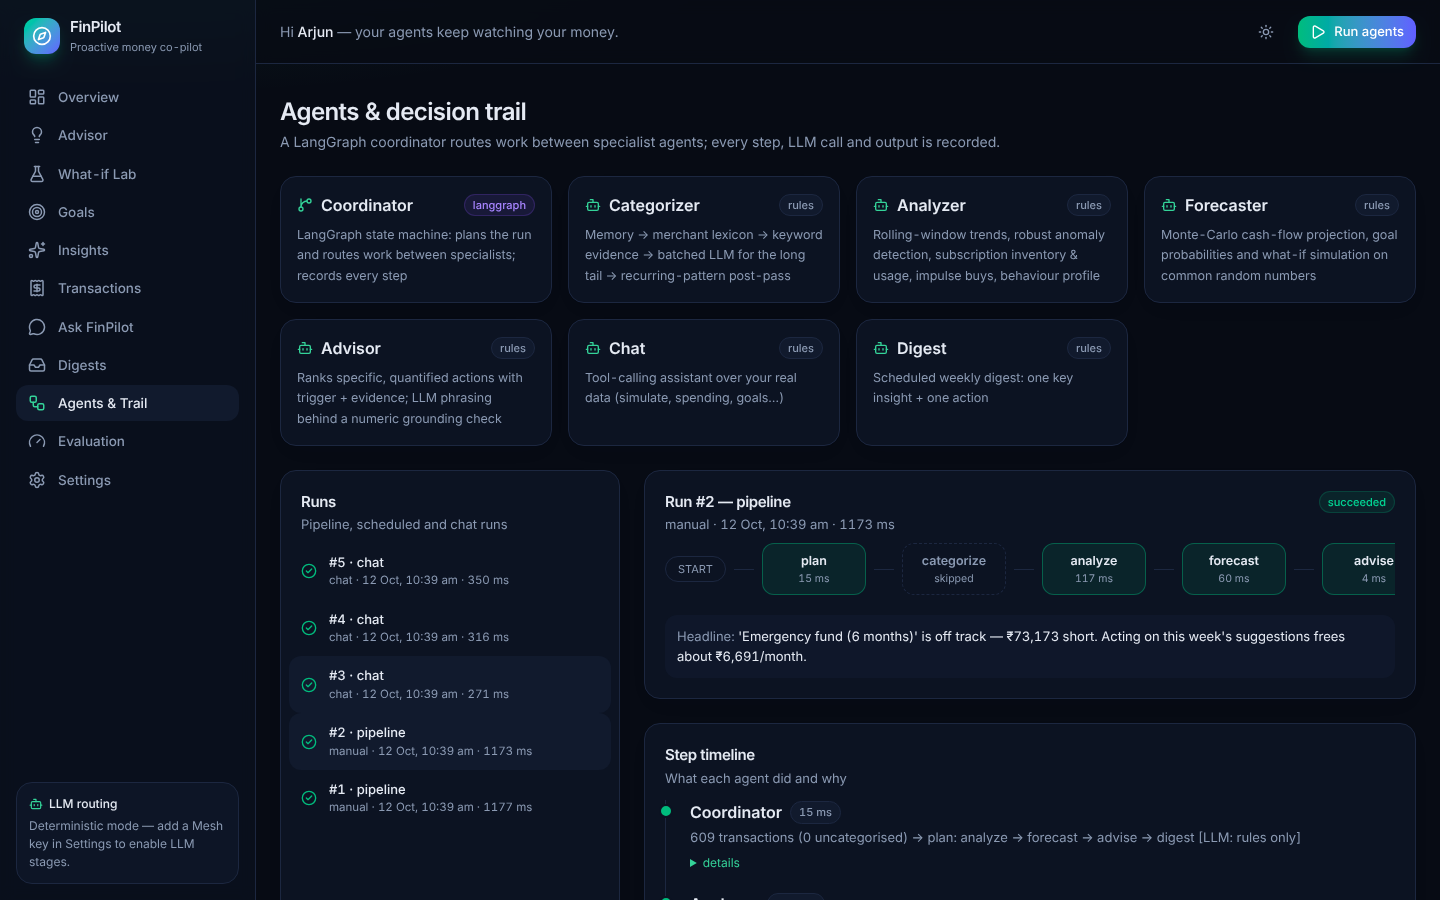
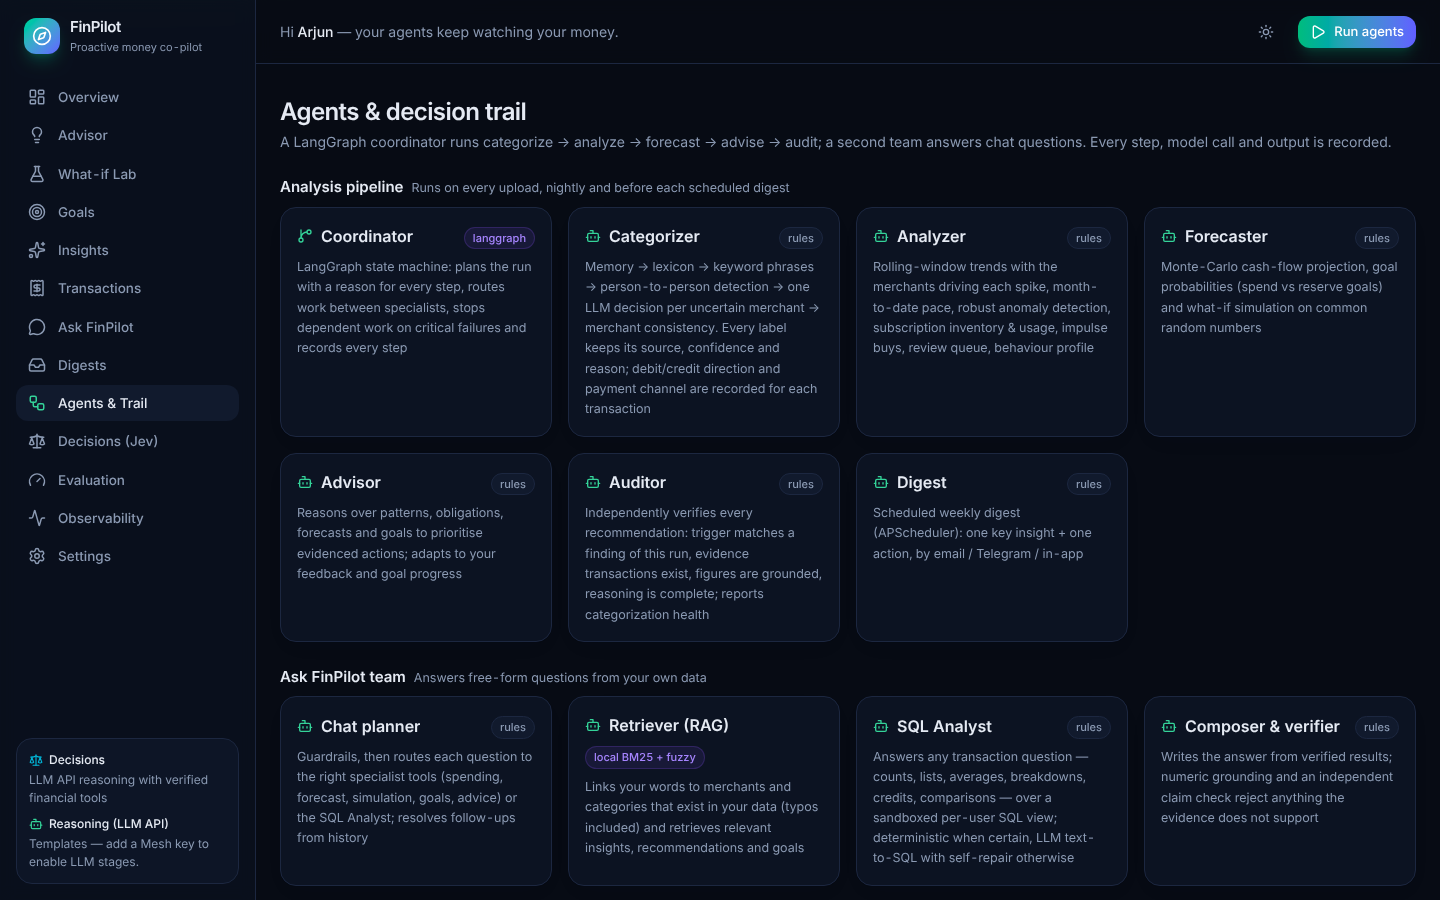
docs: chat team, auditor, direction/channel and new evaluation results
- README: Ask FinPilot agent team (guardrails, retriever, SQL analyst, planner,
  composer/verifier) with diagram, auditor in the pipeline graph, refreshed
  self-evaluation numbers, API and layout updates, new screenshots
- docs/API_AGENTS.md: per-agent responsibilities for the current design
- Evaluation page: SQL Analyst label, narration table spacing

Claude-Session: https://claude.ai/code/session_013T8oC4xYhbZQCbzRZJorzp

diff --git a/frontend/src/pages/Evaluation.tsx b/frontend/src/pages/Evaluation.tsx
@@ -21,10 +21,10 @@ function NarrationSection({ n }: { n: any }) {
           <thead className="text-left text-muted">
             <tr>
               <th className="py-1.5 font-medium">Measurement</th>
-              <th className="text-right font-medium">Category</th>
-              <th className="text-right font-medium">Channel</th>
-              <th className="text-right font-medium">Confident share</th>
-              <th className="text-right font-medium">Precision when confident</th>
+              <th className="pl-3 text-right font-medium">Category</th>
+              <th className="pl-3 text-right font-medium">Channel</th>
+              <th className="pl-3 text-right font-medium">Confident share</th>
+              <th className="pl-3 text-right font-medium">Precision when confident</th>
             </tr>
           </thead>
           <tbody>
@@ -71,7 +71,7 @@ function ChatQASection({ qa }: { qa: any }) {
       <div className="flex flex-wrap gap-1.5 px-5">
         {Object.entries(qa.by_agent).map(([k, v]: [string, any]) => (
           <Badge key={k} tone={v.accuracy === 1 ? "green" : "amber"}>
-            {titleCase(k)} {v.cases} · {pctv(v.accuracy)}
+            {k === "sql_analyst" ? "SQL Analyst" : titleCase(k)} {v.cases} · {pctv(v.accuracy)}
           </Badge>
         ))}
       </div>

diff --git a/README.md b/README.md
@@ -11,8 +11,15 @@ quantified, *auditable* recommendations. A background scheduler delivers a weekl
 **Every AI call routes through [Mesh API](https://developers.meshapi.ai)** (`https://api.meshapi.ai/v1`) by
 default — and the system still runs end-to-end with **zero LLM spend** (each agent has a deterministic path).
 
-**API agents with verified evidence.** Separate categorizer, analyzer, forecaster, advisor, chat planner
-and digest prompts reason over real transaction evidence. Exact tools compute money; independent API
+**Ask anything about your transactions.** *Ask FinPilot* is its own team of agents — guardrails, a retriever
+(value linking + knowledge RAG), a **sandboxed per-user SQL Analyst**, a planner over the finance tools, and a
+composer + verifier — so "how many transactions did I make?", "show all my shopping transactions", "UPI vs
+card spending", "biggest credit this year" or "food delivery this month vs last month" get exact answers with
+the full table attached. Measured: **96.4% end-to-end answer accuracy** against ground truth, and every
+transaction carries its **debit/credit direction and payment channel** (UPI, card, NEFT, ATM, auto-debit…).
+
+**API agents with verified evidence.** Separate categorizer, analyzer, forecaster, advisor, auditor, chat
+planner, SQL analyst and digest prompts reason over real transaction evidence. Exact tools compute money; independent API
 checks reject unsupported generated claims. Missing balances limit affordability conclusions while
 cash-flow projections and transaction-based advice continue. **Jev is disabled by default**; its optional
 legacy integration remains documented below. See the current [agent design](docs/API_AGENTS.md).
@@ -22,8 +29,10 @@ legacy integration remains documented below. See the current [agent design](docs
 | What-if Lab | Decision trail ("Why?") |
 |---|---|
 | ![What-if](docs/screenshots/what-if-lab.png) | ![Decision trail](docs/screenshots/decision-trail.png) |
-| **Agents & run trail** | **Ask FinPilot (tool-calling chat)** |
+| **Agents: analysis pipeline + chat team** | **Ask FinPilot: SQL Analyst answer with the full table** |
 | ![Agents](docs/screenshots/agents.png) | ![Chat](docs/screenshots/chat.png) |
+| **Transactions: debit/credit, channel, category evidence** | **Self-evaluation** |
+| ![Transactions](docs/screenshots/transactions.png) | ![Evaluation](docs/screenshots/evaluation.png) |
 
 ---
 
@@ -59,7 +68,8 @@ generated relative to *today*, so exact numbers shift):
 | **What-if** | *"Can I afford a ₹45k trip next month?"* → **A stretch**: pushes the emergency fund back ~6 weeks; *"cut food delivery ₹10.2k→₹5.2k, dining ₹3.4k→₹1.7k … for 6 months to fund it"* (or *"wait until <date>"* when that works). |
 | **Advice** | Ranked, quantified actions: cancel Zomato Gold (₹349/mo), keep Netflix & drop Prime Video + Hotstar (₹598/mo), cap food delivery at your usual ₹8.7k (₹4.1k/mo), dispute the duplicate charge, autopay to stop late fees — and an emergency-fund plan built from those levers. |
 | **Proactive** | APScheduler cron → weekly digest (in-app inbox, email via SMTP, Telegram bot) with **one key insight + one action**. |
-| **Conversational** | "How much did I spend on food delivery last month?" · "Am I on track?" · "Can I afford a ₹1.2L bike in December?" — answered through tool calls over real data, with the tool trace shown. |
+| **Conversational** | Any question about your own transactions — "How many transactions did I make last month?", "Show all my shopping transactions", "Average Swiggy order", "Spending by category this year", "UPI vs card", "Food delivery this month vs last month" — answered by a sandboxed SQL Analyst with the exact table/chart attached; plus "Am I on track?", "Can I afford a ₹1.2L bike in December?" through the finance tools. Every answer shows which agents and queries produced it. |
+| **Trust** | Every transaction stores direction (debit/credit), payment channel, category source, confidence and reason. An **Auditor** agent re-checks every recommendation's trigger, evidence transactions and figures before you see it. |
 
 ---
 
@@ -158,8 +168,9 @@ graph LR
     categorize --> analyze
     analyze -- critical failure --> E
     analyze --> forecast --> advise
-    advise -- scheduled run --> digest --> E
-    advise --> E
+    advise --> audit
+    audit -- scheduled run --> digest --> E
+    audit --> E
 ```
 
 | Agent | Its job | Own prompt / tools | Deterministic path | Where the LLM adds value |
@@ -169,7 +180,8 @@ graph LR
 | **Analyzer** | Behaviour over time; patterns & anomalies | Behaviour-profile prompt | rolling 30-day windows vs previous three (z-scores), median/MAD outliers, duplicate/fee/new-payee detection, recurring-series detection, subscription overlap & **usage evidence**, impulse tagging | 3–4 bullet behaviour profile (grounding-checked) |
 | **Forecaster** | Project the trajectory; simulate decisions | Forecast-narrative prompt | Monte-Carlo engine (below), goal funding, what-if, "wait until"/"cut" suggestions | Plain-language explanation (grounding-checked) |
 | **Advisor** | Turn signals into specific, ranked actions | Advisor prompt (rewrite, never invent numbers) | 11 candidate generators, priority scoring, feedback adaptation, goal-progress adaptation | Friendlier phrasing + weekly headline, rejected if any figure isn't in the evidence |
-| **Chat** | Free-form money questions | Jev router + financial tools (`simulate`, `get_spending`, `get_forecast`, …) | Exact retrieval and calculations, plus templates on model failure | Conversational greetings; LLM-written answers from exact evidence; complex questions use a tool loop; numeric and claim checks reject unsupported details |
+| **Auditor** | Verify the decision trail | Own checks over this run's findings, forecast and ledger | always (no LLM needed) | — (deliberately independent of the models it audits) |
+| **Chat team** | Free-form money questions | Guardrails · Retriever · Planner (`query_ledger`, `get_spending`, `simulate`, …) · SQL Analyst · Composer/Verifier — see [§3a](#3a-ask-finpilot--the-chat-team) | Deterministic question parser → SQL, finance tools, templates | Planning, text-to-SQL with self-repair, natural answers; numeric and claim checks reject unsupported details |
 | **Digest** | Weekly proactive message: one insight + one action | Digest prompt | Template composer | Warm, specific opener (grounding-checked) |
 
 **One run, step by step (demo account):**
@@ -181,6 +193,37 @@ graph LR
 4. `forecast` — 400 paths × 185 days in ~50 ms; goal snapshots appended (used next run to adapt advice).
 5. `advise` — 9 candidates → 8 ranked recommendations, each with trigger + evidence + reasoning.
 6. `digest` (scheduled runs) — composed and delivered; per-channel delivery status stored.
+
+---
+
+## 3a. Ask FinPilot — the chat team
+
+```mermaid
+graph LR
+    Q([question]) --> G{guardrails}
+    G -- action / injection / off-topic --> R([refusal])
+    G -- greeting / help --> C([capabilities from your data])
+    G --> RET[Retriever: merchants, categories, insights]
+    RET --> P{understood exactly?}
+    P -- yes --> SQL[SQL Analyst: compiled query]
+    P -- no --> PL[Planner LLM]
+    PL --> T[finance tools: spending, forecast, simulate, goals, advice]
+    PL --> SQL2[SQL Analyst: LLM text-to-SQL + repair]
+    SQL --> A([answer + table/chart])
+    SQL2 --> CV[Composer + Verifier] --> A
+    T --> CV
+```
+
+| Agent | Job | How it stays accurate |
+|---|---|---|
+| **Guardrails** | Refuse money-moving actions, prompt injection, off-topic chat | Runs before any model sees the message |
+| **Retriever (RAG)** | Link words to *your* merchants and categories ("swigy" → Swiggy, "medicines" → Health & Fitness, "card bill" → card repayments); pull relevant insights, recommendations and goals | Local BM25 + fuzzy matching over your ledger — works offline, reproducible |
+| **SQL Analyst** | Any factual question: counts, lists, averages, max/min/first/last, breakdowns by month/category/merchant/weekday/channel, credits & income, period comparisons, weekend/late-night, amount thresholds | Runs in a **per-request in-memory SQLite that contains only your rows** (authorizer allows SELECT only, no PRAGMA/ATTACH, CPU/size limits). A deterministic parser compiles fully understood questions; anything else goes to LLM text-to-SQL with schema, date anchors and retrieved values, repaired from the database error up to twice. Unknown payees give "no matches", never a grand total |
+| **Planner** | Pick the specialist tools for everything else (`get_spending`, `rank_spending`, `simulate`, `get_forecast`, `get_goals`, `get_recommendations`, `get_insights`, `query_ledger`) | Only payees that appear in the question or in your data are accepted |
+| **Composer + Verifier** | Phrase the answer from verified results | Numeric grounding + an independent claim check; on rejection the exact deterministic answer is shown |
+
+Results come back as text **plus artifacts**: the full table of matching rows (CSV export) and a chart for
+time series — so "give me the transactions related to shopping" shows all of them, not the first ten.
 
 ---
 
@@ -272,14 +315,27 @@ LLM telemetry (tokens, latency, cache hits) and all-time usage.
 city suffixes) and **21.8% of rows come from long-tail local merchants that are not in the lexicon**
 ("TRUFFLES", "MTR 1924", "GREEN TRENDS", "SHRI GANESH MEDICALS"…). Anomalies and behaviour shifts are injected.
 
-**Categorisation (ablation):**
+**Categorisation (ablation, deterministic):**
 
 | Pipeline stage | Accuracy | Macro-F1 | Long-tail merchants |
 |---|---|---|---|
 | Baseline: always the most common category | 20.0% | – | – |
 | Merchant lexicon only | 79.0% | 0.827 | 3.8% |
-| + keyword evidence, P2P & amount-aware rules | **93.4%** | **0.903** | **69.7%** |
+| + keyword phrases, P2P detection & amount-aware rules | **96.3%** | **0.940** | **83.2%** |
 | + LLM for uncertain merchants (`--llm`) | run with `MESH_API_KEY` | | |
+
+**Precision when confident:** 91.3% of transactions are labelled with confidence ≥ 0.7 and **99.73%** of those
+are correct; the rest go to the *Needs review* queue, and the advisor asks you to confirm them (each answer
+becomes merchant memory). Payment channel 99.8% · debit/credit 100%. The 34 long-tail merchants are a frozen
+hold-out: the evaluation fails loudly if any of them ever leaks into the lexicon.
+
+**Real bank narrations** (`evaluation/narration_cases.py`, 100 hand-labelled HDFC/ICICI/SBI/Axis/Kotak
+formats, independent of the generator): first held-out run **91.0%** category / 97.0% channel / 98.8% precision
+when confident; after fixing the generic parsing bugs it exposed, 98.0% / 99.0% / 100%.
+
+**Ask FinPilot end-to-end:** **96.4%** of 28 questions answered with exactly the right figures, where the
+expected values are computed from the generator's ground-truth categories, merchants and times (the one miss
+is a long-tail shop the deterministic categorizer leaves for review). Tool routing: 20/20.
 
 **Detectors:**
 
@@ -300,7 +356,7 @@ cash-flow| as % of monthly income:
 
 30-day error by persona: family 13.5%, young professional 15.5%, **freelancer 57.7%** (irregular income is the hard
 case). **What-if consistency:** 36/36 scenarios have an exact purchase delta; verdicts are monotonic in purchase
-size on 6/6 datasets. **Chat routing:** 20/20 labelled questions call the right tool sequence (LLM-free router).
+size on 6/6 datasets.
 
 **Caveats, honestly:** data is synthetic; accuracy on *known* merchants (100%) mostly tests normalisation of
 noisy descriptions because the labels share the lexicon's knowledge — the long-tail column is the real
@@ -413,7 +469,8 @@ Interactive docs at **`/docs`**. Highlights:
 | `POST /api/simulate` | what-if with any combination of adjustments |
 | `GET/PATCH /api/recommendations[/{id}]` | advice + feedback (accepted / done / dismissed) |
 | `GET/POST/PATCH/DELETE /api/goals` | goals with live projections and history |
-| `POST /api/chat` | tool-calling assistant (returns the tool trace) |
+| `POST /api/chat` | multi-agent assistant: answer + tool/SQL trace + table/chart `artifacts` + agent `pipeline` |
+| `GET /api/transactions?direction=debit\|credit&channel=upi` | filter by money in/out and payment rail; response includes debit/credit totals |
 | `GET /api/digests` · `POST /api/digests/send-now` · `PUT /api/scheduler` | proactive delivery |
 | `GET/PUT /api/settings…` · `GET /api/llm/models` · `POST /api/settings/llm/test` | profile & provider routing |
 | `GET /api/decisions` · `GET /api/decisions/stats` | System One decision log (probabilities, action taken) + spend & savings by kind |
@@ -424,17 +481,19 @@ Interactive docs at **`/docs`**. Highlights:
 
 ```
 finpilot/
-  agents/       coordinator (LangGraph) · categorizer · analyzer · forecaster · advisor · chat · digest
+  agents/       coordinator (LangGraph) · categorizer · analyzer · forecaster · advisor · auditor · digest
+                chat (guardrails, planner, composer/verifier) · analyst (SQL Analyst: parser + text-to-SQL)
   domain/       taxonomy · merchant lexicon · description normaliser · recurring detection · stats
   decisions/    Jev client (Mesh /v1/evaluate) · question specs · confidence policy · faithfulness guard · cost model
   llm/          provider registry · router (fallback, cache, telemetry) · grounding check
   observability/ request context · access-log middleware · raw call recorder · LangSmith tracing
   services/     statements/ (format readers, column mapping, PDF text parser) · ingestion · auth · synthetic data
+                ledger_sql (sandboxed per-user SQL view) · retrieval (value linking + BM25 knowledge)
                 repository · toolkit (chat tools) · scheduler (+ retention) · notifier · seed
   api/          FastAPI routers + serializers        main.py · models.py · config.py · db.py
 evaluation/     run_eval.py · jev_eval.py + jev_cases.py (labelled sets) · results/ (REPORT.md, latest.json)
 frontend/       React 19 + Vite + TypeScript + Tailwind 4 + Recharts + TanStack Query
-tests/          128 tests: domain logic, agents (fake LLM + simulated /v1/evaluate), Jev, statement formats, accounts
+tests/          256 tests: domain logic, agents (fake LLM + simulated /v1/evaluate), Jev, statement formats, accounts
                 & isolation, observability, API
 ```
 
@@ -464,6 +523,9 @@ Upload what your bank gives you; FinPilot works out the layout instead of expect
 * **Values:** one date format per column (so 05/07 is never read two ways), `1,23,456.78`, `500 Cr`, `(250)`,
   `250-`, `₹`, `Rs.`, `/-`; remarks wrapped over several lines are joined.
 * **Signs** come from separate debit/credit columns, a type column, Cr/Dr suffixes, or the running balance.
+  Every stored transaction then records its **direction** (debit/credit) and **payment channel** (UPI, card,
+  net banking, NEFT, IMPS, RTGS, ATM, auto-debit, cheque, cash deposit, bank interest/charges) read from the
+  narration; both are filters on the Transactions page and columns in the chat's SQL view.
 * **Checks:** every import reports the date range, money in and out, and how many rows reconcile against the
   statement's own running balance (100% for the ICICI CSV that previously failed). Re-uploading the same file
   imports nothing twice.

diff --git a/docs/API_AGENTS.md b/docs/API_AGENTS.md
@@ -5,32 +5,45 @@ by default and is not called by the default agents; its optional code and histor
 
 ## Responsibilities
 
-- **Coordinator:** LangGraph runs categorize → analyze → forecast → advise, with scheduled digests.
-  Missing balance provenance no longer skips advice. Critical failures stop dependent work. Changed
+- **Coordinator:** LangGraph runs categorize → analyze → forecast → advise → audit, with scheduled digests.
+  The plan step records *why* each step runs, the transactions needing review and the model each agent
+  uses. Missing balance provenance no longer skips advice. Critical failures stop dependent work. Changed
   transaction, balance or goal inputs invalidate stale results. Steps record model calls and decisions.
-- **Categorizer:** API reasoning identifies the payee's business separately from transaction purpose,
-  using full narration, signed amount, date, currency and fallible rule suggestions. Uncertain intermediary
-  payments receive a second reasoning pass. Company words such as Club do not prove a membership fee.
-  Explicit rent/order/card evidence wins over unsupported inference. Manual/import labels and user memory
-  stay authoritative. Invalid model IDs, taxonomy values or confidence values are rejected. Unresolved
-  ambiguity requires review; model confidence is not a measured probability of correctness.
-- **Analyzer:** Exact aggregates establish trends, anomalies, debt obligations and bank cash flow.
-  Its own prompt interprets those facts with coverage caveats. Transfers/investments can leave the bank
-  without counting as consumption spending. Card bills do not reveal original purchases. Bank history
-  alone cannot prove a membership unused; that claim requires explicit usage confirmation.
+- **Categorizer:** memory → curated lexicon (family rules keep the matched brand, e.g. "Third Wave Coffee",
+  not "Café") → keyword *phrases* (a matched phrase hides the words inside it: "MILK PARLOUR" is a dairy) →
+  person-to-person detection (needs a common Indian name or a phone-number VPA; bank "P2A" markers count) →
+  **one LLM decision per uncertain merchant + direction** (79 groups instead of ~600 narrations on the demo)
+  → merchant consistency. The LLM prompt separates payee business from payment purpose, uses brand knowledge
+  (with examples that are deliberately *not* in the evaluation hold-out) and calibrated confidence. An unsure
+  model never erases specific evidence; a curated rule yields only to a confident model. P2P payments are
+  `transfers` with review-level confidence because the purpose is unknown. Manual/import labels and user
+  memory stay authoritative. Every transaction also records **direction** and **payment channel**.
+- **Analyzer:** Exact aggregates establish trends (with the merchants driving each spike), month-to-date pace
+  against the same days of last month, anomalies, debt obligations, bank cash flow and the review queue.
+  Its prompt writes 3-4 ordered observations, copying figures exactly. Bank history alone cannot prove a
+  membership unused; that claim requires explicit usage confirmation.
 - **Forecaster:** Recurring obligations plus historical variable cash flow produce seeded simulation
   paths. Shared masked loan references link narration changes. Monthly card obligations include every
   recorded bill across platforms, without asserting one card account. Varying bills/income sample actual
-  observed amounts. Weekday Bayesian bootstrap weights model uncertainty in estimated historical rates.
-  Scenario paths share draws; invalid amounts, cuts below -100% and out-of-horizon dates are rejected.
+  observed amounts. Scenario paths share draws; invalid amounts, cuts below -100% and out-of-horizon dates
+  are rejected. The narrative prompt copies figures exactly (strict grounding rejects rounding).
 - **Advisor:** An API decision step reasons over patterns, obligations, trajectory and goals to prioritize
-  evidence-derived actions. A separate phrasing step explains them. Every recommendation stores its trigger,
-  transaction/forecast evidence and reasoning. Review actions invent no savings or loan-interest benefit.
-- **Chat:** API query planning selects read-only tools; code calculates exact results; API generation
-  explains them. “Biggest expense” means an individual expense debit, distinct from merchant/category
-  totals. Matching uses payee identity rather than arbitrary bank/creditor text: CRED totals exclude Kiwi
-  merely mentioning ICICI Cred. Relative periods use the current calendar with explicit boundaries.
-  Chat history resolves references but never establishes financial facts. Greetings need no ledger access.
+  evidence-derived actions; a separate phrasing step explains them (evidence → action → effect). New actions:
+  confirm the review queue, slow a month-to-date spending pace. Every recommendation stores its trigger,
+  transaction/forecast evidence (including derived figures such as a funding plan's share of a goal gap)
+  and reasoning.
+- **Auditor:** Deterministic and independent of the models it checks. Each recommendation's trigger must
+  match a finding or forecast of the same run, evidence transaction ids must exist in the ledger, the trail
+  needs at least two reasoning steps and a finite impact, and every figure in the title/message must be
+  grounded in its evidence. The verdict is appended to the reasoning; failures are marked ungrounded. It also
+  reports categorization health (share of outflows needing review).
+- **Chat team:** guardrails (actions, injection, off-topic) → retriever (value linking to the user's merchants
+  and categories, BM25 over insights/recommendations/goals) → SQL Analyst for data questions (deterministic
+  parser when every word is explained, otherwise LLM text-to-SQL over a sandboxed per-user SQLite view with
+  schema, date anchors and retrieved values, repaired from database errors) or the planner for finance tools
+  → composer + verifier. Answers carry exact table/chart artifacts. "Biggest expense" means an individual
+  expense debit; payee matching uses whole names (CRED totals exclude Kiwi mentioning ICICI Cred); relative
+  periods use the current calendar; history resolves references but never establishes facts.
 - **Digest:** Its own prompt summarizes one supported insight and action. APScheduler drives delivery;
   an empty recommendation list does not mean all steady. Local verification never sends external messages.
 
@@ -65,7 +78,8 @@ precedence over `.env`; changing environment variables alone does not replace a 
 exact deltas, unknown-balance claims, usage evidence and invalid verdicts. Existing isolation, agent,
 API, ingestion, scheduler and optional Jev tests also run on SQLite and a separate PostgreSQL database.
 
-`python -m evaluation.run_eval --seeds 1 2` records reproducible synthetic categorization, detector,
-forecast and simulation metrics in `evaluation/results/latest.json` and `REPORT.md`. Offline results
+`python -m evaluation.run_eval --seeds 1 2 3` records reproducible synthetic categorization (with a frozen
+long-tail hold-out and precision when confident), a hand-labelled real-narration benchmark, detector,
+forecast, simulation and end-to-end chat answer accuracy in `evaluation/results/latest.json` and `REPORT.md`. Offline results
 do not measure live LLM accuracy. Live API cases are reported separately. Forecast coverage remains
 below the nominal 80%, particularly for irregular freelance income; accuracy is not guaranteed.
